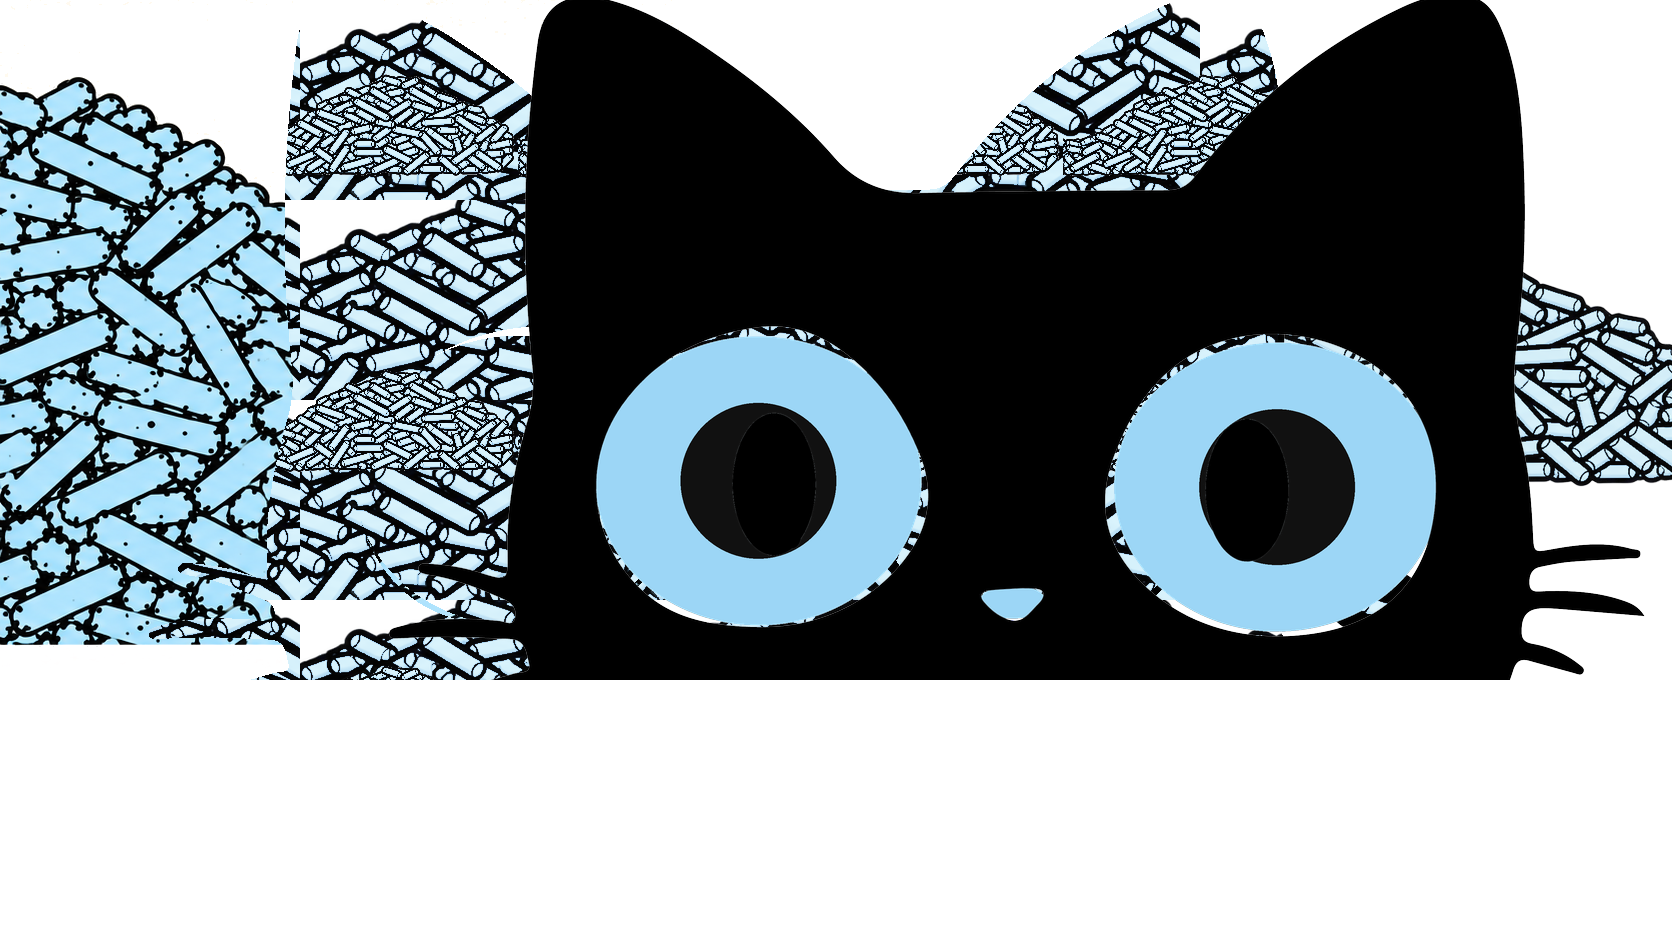
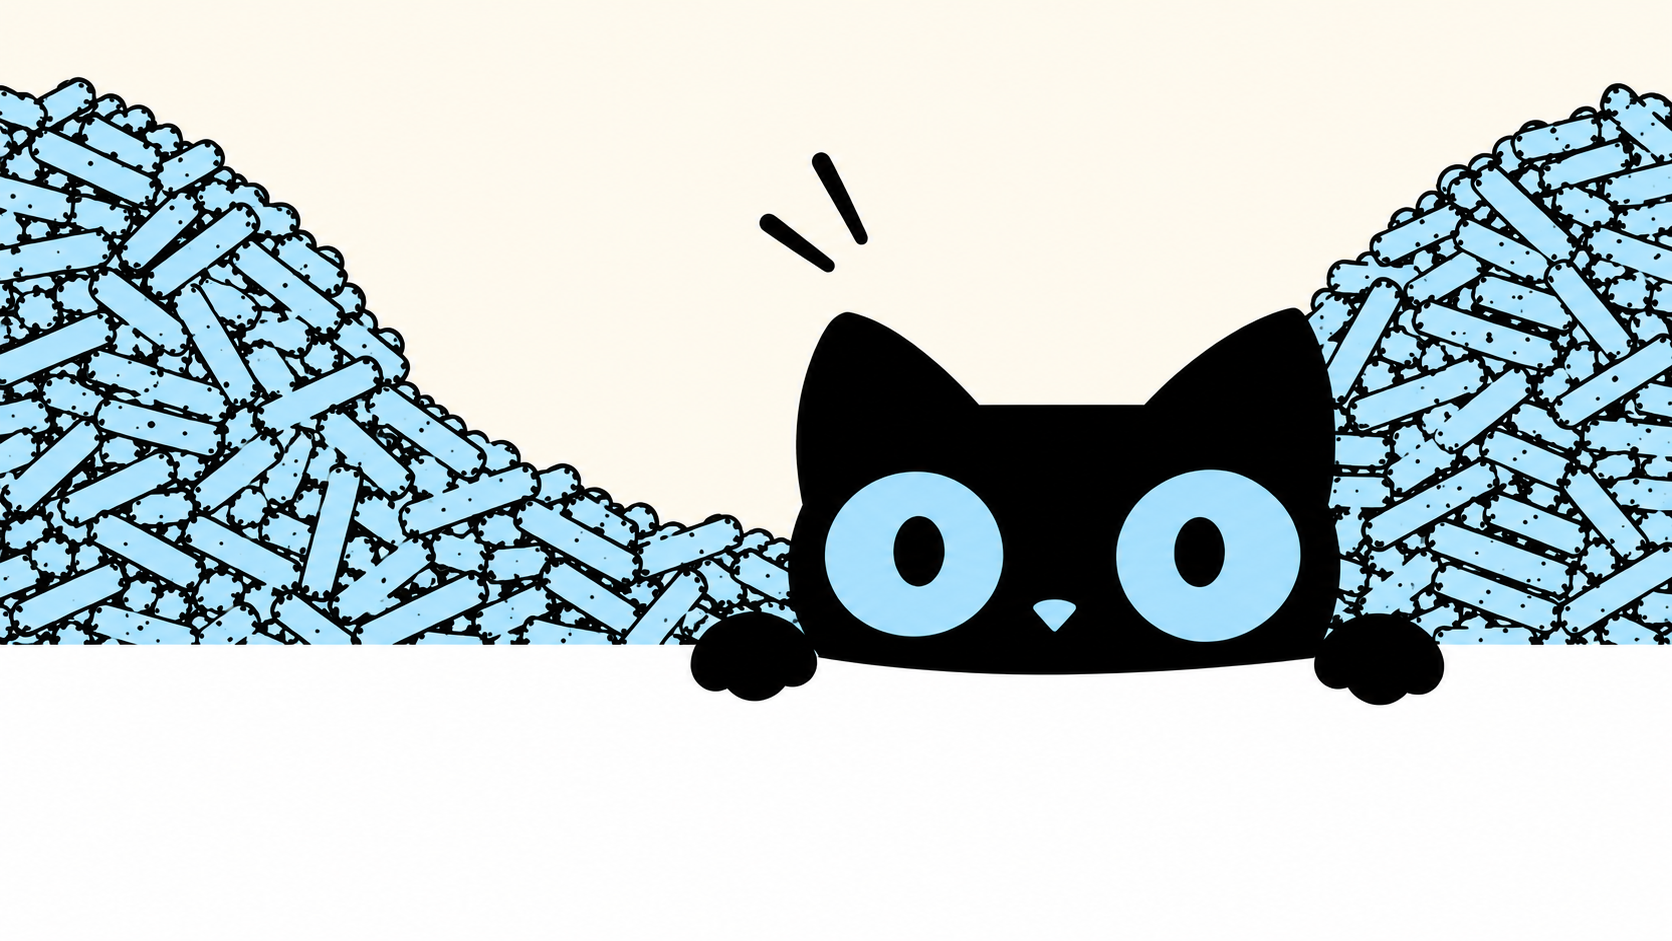
feat: implement hero scroll experience and background components with configuration updates

diff --git a/src/components/HeroScrollExperience.tsx b/src/components/HeroScrollExperience.tsx
@@ -461,7 +461,7 @@ export default function HeroScrollExperience() {
       onPointerDown={onPointerDown}
       onPointerUp={onPointerUp}
       className={`fixed inset-0 w-screen h-screen overflow-hidden select-none flex flex-col justify-between transition-colors duration-700 ${
-        introPhase === "hero" ? "bg-[#FEF8EA]" : "bg-[#111317]"
+        introPhase === "hero" ? "bg-[#FEFAEF]" : "bg-[#111317]"
       }`}
     >
       {/* Layer 0: Cream Hero Background with Brick Accents & Litter Pile */}
@@ -641,8 +641,8 @@ export default function HeroScrollExperience() {
             x:
               introPhase === "hero"
                 ? isMobile
-                  ? "-24vw"
-                  : "-28vw"
+                  ? "-32vw"
+                  : "-34vw"
                 : "0vw",
             y:
               introPhase === "hero"
@@ -905,32 +905,31 @@ export default function HeroScrollExperience() {
             </motion.div>
 
             {/* Step 2 & Step 3: THE IMAGE EXPANDS SLOWLY & SMOOTHLY TO CAPTURE THE FULL SCREEN */}
-            {stage !== "carousel" && (
+            <motion.div
+              animate={{
+                opacity: stage !== "carousel" ? 1 : 0,
+              }}
+              transition={{
+                duration: 0.85,
+                ease: [0.16, 1, 0.3, 1],
+              }}
+              className="absolute inset-0 w-full h-full pointer-events-none z-10 overflow-hidden"
+            >
+              <Image
+                src={currentItem.image}
+                alt={currentItem.flavor}
+                fill
+                sizes="100vw"
+                className="object-cover object-center w-full h-full"
+                priority
+              />
+              {/* Subtle cinematic left vignette for the glass card */}
               <motion.div
-                initial={{ opacity: 0 }}
-                animate={{ opacity: 1 }}
-                exit={{ opacity: 0 }}
-                transition={{
-                  duration: 0.85,
-                  ease: [0.16, 1, 0.3, 1],
-                }}
-                className="absolute inset-0 w-full h-full pointer-events-none z-10 overflow-hidden"
-              >
-                <Image
-                  src={currentItem.image}
-                  alt={currentItem.flavor}
-                  fill
-                  sizes="100vw"
-                  className="object-cover object-center w-full h-full"
-                />
-                {/* Subtle cinematic left vignette for the glass card */}
-                <motion.div
-                  animate={{ opacity: stage === "details" ? 1 : 0 }}
-                  transition={{ duration: 0.7, ease: "easeOut" }}
-                  className="absolute inset-0 bg-gradient-to-r from-black/80 via-black/35 to-black/10 pointer-events-none"
-                />
-              </motion.div>
-            )}
+                animate={{ opacity: stage === "details" ? 1 : 0 }}
+                transition={{ duration: 0.7, ease: "easeOut" }}
+                className="absolute inset-0 bg-gradient-to-r from-black/80 via-black/35 to-black/10 pointer-events-none"
+              />
+            </motion.div>
 
             {/* Step 3: Left Side (Desktop) / Lower-Center (Mobile) Product Panel */}
             <motion.div

diff --git a/src/components/HeroBackground.tsx b/src/components/HeroBackground.tsx
@@ -7,7 +7,7 @@ export default function HeroBackground() {
   return (
     <div className="absolute inset-0 pointer-events-none overflow-hidden select-none z-0">
       {/* ── Base Cream Background ── */}
-      <div className="absolute inset-0 bg-[#FEF8EA]" />
+      <div className="absolute inset-0 bg-[#FEFAEF]" />
 
       {/* ── Decorative Brick Accents (Color: #F4EBD8) Matching Mockup ── */}
       {/* Top Right Brick Cluster */}
@@ -37,19 +37,18 @@ export default function HeroBackground() {
         <div className="w-16 sm:w-22 h-3 sm:h-4 bg-[#F4EBD8] rounded-[3px] ml-5" />
       </div>
 
-      {/* ── Seamless White Floor Base ── */}
-      <div className="absolute bottom-0 inset-x-0 h-[12vh] sm:h-[14vh] md:h-[16vh] bg-white z-0" />
+      {/* ── Seamless White Floor Base (Fills any bottom space) ── */}
+      <div className="absolute bottom-0 inset-x-0 h-[3vh] sm:h-[4vh] md:h-[5vh] bg-white z-0" />
 
-      {/* ── Complete Bottom Artwork (Cover End-to-End Layout Elevated on White Floor) ── */}
-      <div className="absolute bottom-[8vh] sm:bottom-[10vh] md:bottom-[12vh] inset-x-0 w-full flex justify-center items-end pointer-events-none z-10 overflow-hidden">
-        <div className="relative w-full aspect-[1672/755] min-h-[260px] sm:min-h-[320px] md:min-h-[380px] max-h-[66vh] sm:max-h-[68vh] md:max-h-[72vh]">
+      {/* ── Complete Hero Artwork (Blue Litter Hills, Peeking Cat & White Floor) ── */}
+      <div className="absolute -bottom-[14vh] sm:-bottom-[17vh] md:-bottom-[20vh] inset-x-0 w-full flex justify-center items-end pointer-events-none z-10 overflow-hidden">
+        <div className="relative w-full aspect-[1672/941] min-h-[260px] sm:min-h-[320px] md:min-h-[380px] max-h-[85vh] sm:max-h-[88vh] md:max-h-[92vh]">
           <Image
-            src="/bottom_scene_end_to_end.png"
-            alt="Blue Litter Hills & Peeking Cat"
+            src="/image.png"
+            alt="Meow Ganics Litter Hills & Peeking Cat"
             fill
             sizes="100vw"
-            className="object-cover w-full h-full"
-            style={{ objectPosition: "58% bottom" }}
+            className="object-cover object-bottom w-full h-full"
             priority
           />
         </div>

diff --git a/next.config.ts b/next.config.ts
@@ -2,7 +2,6 @@ import type { NextConfig } from "next";
 
 const nextConfig: NextConfig = {
   images: {
-    unoptimized: true,
     remotePatterns: [
       {
         protocol: "https",
